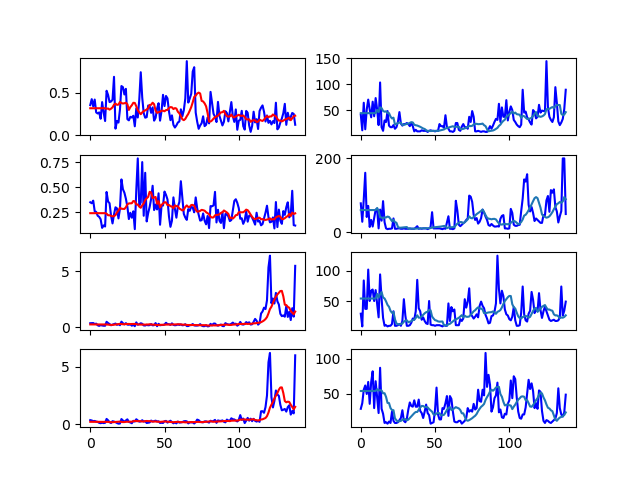
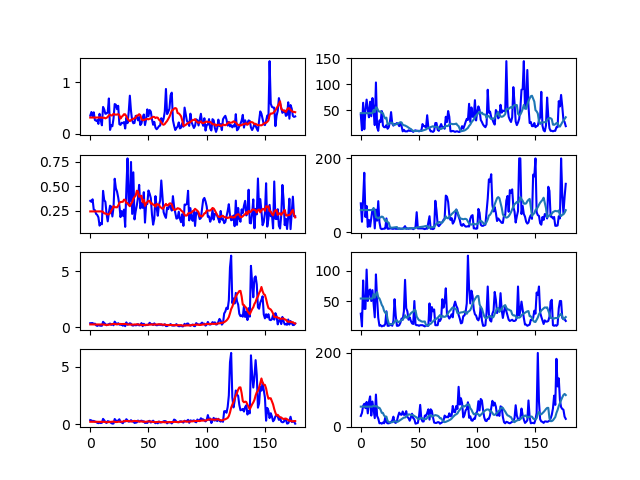
TF_DQN

diff --git a/9.controller/DQN/CartPole/dqn_advanced_multi_process_v2.0.0.py b/9.controller/DQN/CartPole/dqn_advanced_multi_process_v2.0.0.py
@@ -1,10 +1,3 @@
-"""
-x = Dense(1024, activation='relu', name="hidden_layer_0_"+str(self.worker_idx))(inputs)
-x = Dense(512, activation='relu', name="hidden_layer_1_"+str(self.worker_idx))(x)
-x = Dense(256, activation='relu', name="hidden_layer_2_"+str(self.worker_idx))(x)
-learning_rate = 0.0001
-"""
-
 import math
 import threading
 import time
@@ -30,15 +23,13 @@ import warnings
 print(tf.__version__)
 warnings.filterwarnings("ignore")
 
-ddqn = True
+ddqn = False
 num_workers = 4
 num_hidden_layers = 3
 transfer = True
-num_weight_transfer_hidden_layers = 2
+num_weight_transfer_hidden_layers = 1
 verbose = False
 learning_rate = 0.001
-experiment_count = 1
-filename = "dqn_advanced_multi_process_v2.1.1_experiment_result.txt"
 
 def exp_moving_average(values, window): #?
     """
@@ -123,7 +114,6 @@ class DQNAgent:
         self.max_episodes = max_episodes
 
         self.global_max_mean_score = 0
-        self.global_mean_loss = 0.0
 
         self.local_scores = []
         self.local_losses = []
@@ -136,8 +126,8 @@ class DQNAgent:
         :return: tensorflow.keras.Model
         """
         inputs = Input(shape=(n_inputs,), name="state_"+str(self.worker_idx))
-        x = Dense(1024, activation='relu', name="hidden_layer_0_"+str(self.worker_idx))(inputs)
-        x = Dense(512, activation='relu', name="hidden_layer_1_"+str(self.worker_idx))(x)
+        x = Dense(256, activation='relu', name="hidden_layer_0_"+str(self.worker_idx))(inputs)
+        x = Dense(256, activation='relu', name="hidden_layer_1_"+str(self.worker_idx))(x)
         x = Dense(256, activation='relu', name="hidden_layer_2_"+str(self.worker_idx))(x)
         x = Dense(n_outputs, activation='linear', name="output_layer_"+str(self.worker_idx))(x)
         model = Model(inputs, x)
@@ -280,7 +270,6 @@ class DQNAgent:
 
             if self.epsilon > self.epsilon_min:
                 self.epsilon *= epsilon_decay
-        # print("epsilon:", self.epsilon)
 
     def start_rl(self, socket):
         """
@@ -380,12 +369,6 @@ class DQNAgent:
                     socket,
                     last_episode=episode
                 )
-
-                with open(filename + '_experiment_result.txt', 'a+') as f:
-                    exp_result = "\n\n "+str(experiment_count)+" \n *** Worker "+ str(self.worker_idx)+" - Solved in episode " \
-                                 + str(episode)+ ": Mean score = " + str(mean_score) + " in " + str(self.win_trials)+ " episodes"
-                    f.write(exp_result)
-
                 break
 
         # close the env and write monitor result info to disk

diff --git a/9.controller/DQN/CartPole/dqn_advanced_multi_process_v2.0.2.py b/9.controller/DQN/CartPole/dqn_advanced_multi_process_v2.0.2.py
@@ -1,10 +1,3 @@
-"""
-x = Dense(1024, activation='relu', name="hidden_layer_0_"+str(self.worker_idx))(inputs)
-x = Dense(512, activation='relu', name="hidden_layer_1_"+str(self.worker_idx))(x)
-x = Dense(256, activation='relu', name="hidden_layer_2_"+str(self.worker_idx))(x)
-learning_rate = 0.0001
-"""
-
 import math
 import threading
 import time
@@ -34,11 +27,9 @@ ddqn = True
 num_workers = 4
 num_hidden_layers = 3
 transfer = True
-num_weight_transfer_hidden_layers = 2
+num_weight_transfer_hidden_layers = 1
 verbose = False
 learning_rate = 0.001
-experiment_count = 1
-filename = "dqn_advanced_multi_process_v2.1.1_experiment_result.txt"
 
 def exp_moving_average(values, window): #?
     """
@@ -123,7 +114,6 @@ class DQNAgent:
         self.max_episodes = max_episodes
 
         self.global_max_mean_score = 0
-        self.global_mean_loss = 0.0
 
         self.local_scores = []
         self.local_losses = []
@@ -136,8 +126,8 @@ class DQNAgent:
         :return: tensorflow.keras.Model
         """
         inputs = Input(shape=(n_inputs,), name="state_"+str(self.worker_idx))
-        x = Dense(1024, activation='relu', name="hidden_layer_0_"+str(self.worker_idx))(inputs)
-        x = Dense(512, activation='relu', name="hidden_layer_1_"+str(self.worker_idx))(x)
+        x = Dense(256, activation='relu', name="hidden_layer_0_"+str(self.worker_idx))(inputs)
+        x = Dense(256, activation='relu', name="hidden_layer_1_"+str(self.worker_idx))(x)
         x = Dense(256, activation='relu', name="hidden_layer_2_"+str(self.worker_idx))(x)
         x = Dense(n_outputs, activation='linear', name="output_layer_"+str(self.worker_idx))(x)
         model = Model(inputs, x)
@@ -280,7 +270,6 @@ class DQNAgent:
 
             if self.epsilon > self.epsilon_min:
                 self.epsilon *= epsilon_decay
-        # print("epsilon:", self.epsilon)
 
     def start_rl(self, socket):
         """
@@ -380,12 +369,6 @@ class DQNAgent:
                     socket,
                     last_episode=episode
                 )
-
-                with open(filename + '_experiment_result.txt', 'a+') as f:
-                    exp_result = "\n\n "+str(experiment_count)+" \n *** Worker "+ str(self.worker_idx)+" - Solved in episode " \
-                                 + str(episode)+ ": Mean score = " + str(mean_score) + " in " + str(self.win_trials)+ " episodes"
-                    f.write(exp_result)
-
                 break
 
         # close the env and write monitor result info to disk

diff --git a/9.controller/DQN/CartPole/dqn_advanced_multi_process_v2.1.2.py b/9.controller/DQN/CartPole/dqn_advanced_multi_process_v2.1.2.py
@@ -36,7 +36,7 @@ num_hidden_layers = 3
 transfer = True
 num_weight_transfer_hidden_layers = 1
 verbose = False
-learning_rate = 0.0001 * num_workers
+learning_rate = 0.001 * num_workers
 experiment_count = 1
 filename = "dqn_advanced_multi_process_v2.1.2"
 

diff --git a/9.controller/DQN/CartPole/dqn_advanced_multi_process_v2.0.1.py b/9.controller/DQN/CartPole/dqn_advanced_multi_process_v2.0.1.py
@@ -29,7 +29,7 @@ num_hidden_layers = 3
 transfer = True
 num_weight_transfer_hidden_layers = 1
 verbose = False
-learning_rate = 0.0001
+learning_rate = 0.001
 
 def exp_moving_average(values, window): #?
     """
